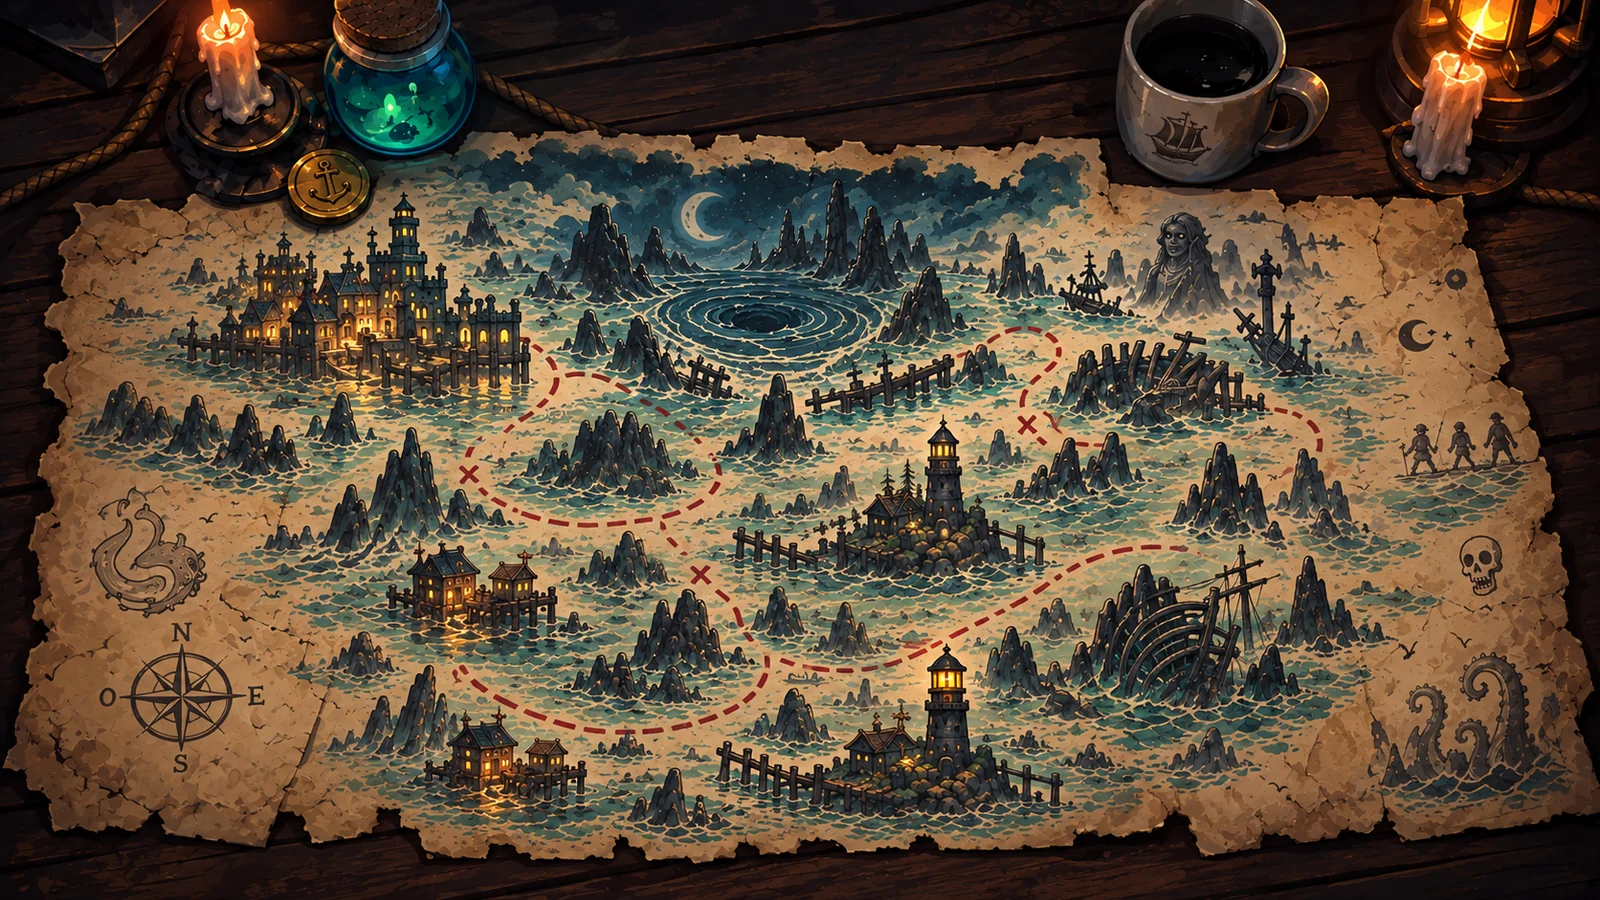
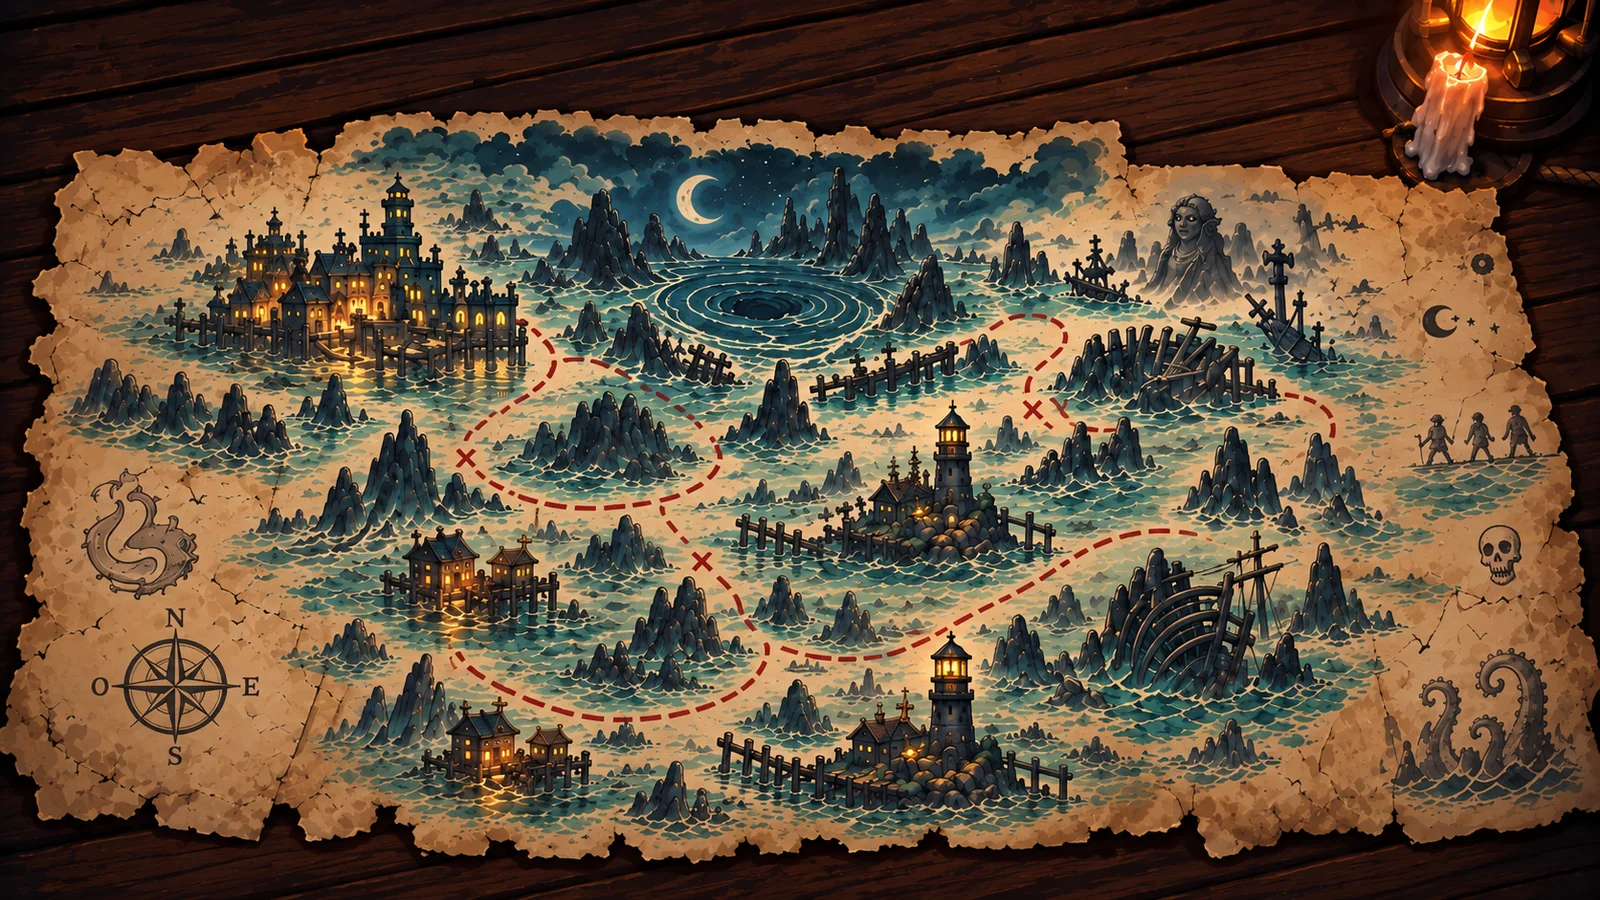
La tasse fume, le café ride : le seul objet vivant de la table
Le fond que tu as refait ne porte plus ni tasse ni bric-à-brac en haut à
droite : la tasse est devenue un calque à elle, et c'est elle qui bouge.

TROIS CALQUES CALÉS L'UN SUR L'AUTRE. La surface du café a été retrouvée
dans la tasse en la faisant glisser dessus jusqu'à ce qu'elle tombe juste :
64,3 % de sa largeur, à 8,95 % du bord gauche et 20,3 % du haut. Les deux
états (calme, agité) sont rognés sur la même boîte, donc superposables au
pixel : la ride n'est qu'un fondu de l'un vers l'autre, toutes les huit
secondes et demie, et l'illustration fait le reste.

TROIS VOLUTES QUI SE RELAIENT. Chacune a sa durée (8 s, 9,6 s, 11,2 s) et
son retard d'un tiers de cycle : on ne voit jamais la même forme repartir
deux fois de suite. Elles naissent au-dessus du café, montent, grandissent
et s'effacent.

La tasse est descendue à 7 % du haut : collée au bord, ses volutes
sortaient de l'écran et il ne restait qu'un tremblement au ras du café.

Sous `prefers-reduced-motion`, la table s'immobilise : plus de ride, et une
seule volute posée au-dessus de la tasse.

Tes seize PNG sont rognés, rangés en famille et convertis : 32,2 Mo →
3,6 Mo. Les gabarits des trois parchemins n'ont pas bougé d'un pixel avec
le nouveau fond — vérifié, leurs boîtes tombent au même endroit.

Claude-Session: https://claude.ai/code/session_0142tELaKzHd6B5n1av4gLgv

diff --git a/components/menu/MenuCarte.module.css b/components/menu/MenuCarte.module.css
@@ -116,6 +116,114 @@
   width: 42%;
 }
 
+/* ──────────────────────────────────────────────────────────────
+ * LA TASSE DE CAFÉ — le seul objet vivant de la table.
+ * ──────────────────────────────────────────────────────────────
+ *
+ * Trois calques calés les uns sur les autres : la tasse, la surface du
+ * café au repos, et la même agitée. Plus trois volutes de fumée, qui
+ * montent du café et se relaient.
+ *
+ * Tout est en pourcentages de la TASSE (et la tasse en pourcentages du
+ * fond, comme le reste du décor) : un seul nombre à toucher pour la
+ * déplacer, et le café reste dedans.
+ */
+.propTasse {
+  position: absolute;
+  z-index: 2;
+  /*
+   * Posée à droite de la carte, assez BAS pour que la fumée ait le ciel
+   * qu'il lui faut : collée au bord haut, ses volutes sortaient de
+   * l'écran et il ne restait qu'un tremblement au ras de la tasse.
+   */
+  top: 7%;
+  left: 68.5%;
+  width: 15.5%;
+  aspect-ratio: 1207 / 1143;
+  pointer-events: none;
+}
+
+.tasse,
+.cafeCalme,
+.cafeAgite,
+.fumee {
+  position: absolute;
+  height: auto;
+  user-select: none;
+}
+
+.tasse {
+  inset: 0;
+  width: 100%;
+}
+
+/*
+ * LA SURFACE DU CAFÉ, mesurée dans la tasse (`caler-cafe`) : elle occupe
+ * 64,3 % de sa largeur, à 8,95 % du bord gauche et 20,3 % du haut. Les
+ * deux états sont rognés sur la même boîte, ils se superposent au pixel.
+ */
+.cafeCalme,
+.cafeAgite {
+  top: 20.3%;
+  left: 8.95%;
+  width: 64.3%;
+}
+
+/*
+ * LA RIDE. Le café n'est pas immobile : toutes les huit secondes, une onde
+ * le traverse et se calme. C'est un fondu entre les deux surfaces, jamais
+ * un mouvement — l'illustration fait le reste.
+ */
+.cafeAgite {
+  opacity: 0;
+  animation: cafeRide 8.5s ease-in-out infinite;
+}
+
+@keyframes cafeRide {
+  0%, 46% { opacity: 0; }
+  62% { opacity: 0.92; }
+  78% { opacity: 0.55; }
+  100% { opacity: 0; }
+}
+
+/*
+ * LA FUMÉE. Trois volutes qui montent du café, chacune sur son propre
+ * cycle et décalée d'un tiers : on ne voit jamais la même forme repartir
+ * deux fois de suite. Elles naissent au-dessus de la surface du café
+ * (41 % de la largeur de la tasse) et s'effacent en montant.
+ *
+ * `--fumee-rang` (0, 1, 2) donne à chacune sa durée et son retard.
+ */
+.fumee {
+  bottom: 62%;
+  left: 41%;
+  z-index: 1;
+  width: 62%;
+  opacity: 0;
+  transform: translate(-50%, 0);
+  transform-origin: bottom center;
+  filter: blur(0.3px);
+  animation: fumeeMonte calc(8s + var(--fumee-rang) * 1.6s) ease-out infinite;
+  animation-delay: calc(var(--fumee-rang) * -3.1s);
+}
+
+@keyframes fumeeMonte {
+  0% {
+    opacity: 0;
+    transform: translate(-50%, 14%) scale(0.72) rotate(-3deg);
+  }
+  24% {
+    opacity: 0.52;
+  }
+  62% {
+    opacity: 0.34;
+  }
+  100% {
+    opacity: 0;
+    transform: translate(-50%, -58%) scale(1.26) rotate(6deg);
+  }
+}
+
 /*
  * LE LOGO est accroché à l'ÉCRAN, pas à la scène.
  *
@@ -223,5 +331,17 @@
   .card:focus-visible,
   .card:active {
     transform: none;
+  }
+
+  /* La table s'immobilise : le café ne ride plus, et une seule volute
+     reste posée au-dessus de la tasse, sans monter. */
+  .cafeAgite {
+    animation: none;
+  }
+
+  .fumee {
+    animation: none;
+    opacity: 0.22;
+    transform: translate(-50%, 0) scale(1);
   }
 }

diff --git a/components/menu/TideboundMenuCarte.tsx b/components/menu/TideboundMenuCarte.tsx
@@ -31,8 +31,22 @@ export const MENU_CARTE_ASSETS = {
   gauche: "/assets/menu/carte/left-asset.webp",
   droite: "/assets/menu/carte/right-asset.webp",
   longueVue: "/assets/menu/carte/longue-vue-bottom.webp",
+  tasse: "/assets/menu/carte/tasse-cafe.webp",
+  cafeCalme: "/assets/menu/carte/cafe_surface_normal.webp",
+  cafeAgite: "/assets/menu/carte/cafe_surface_variante.webp",
   logo: "/assets/menu/logo/tidebound-logo.webp",
 } as const;
+
+/**
+ * LES TROIS VOLUTES DE FUMÉE, jouées à tour de rôle et décalées dans le
+ * temps : trois formes qui se relaient, jamais la même boucle deux fois de
+ * suite à l'œil. Elles montent du café, pas de la tasse.
+ */
+const FUMEES = [
+  { src: "/assets/menu/carte/fumee_variante_1.webp", w: 609, h: 421 },
+  { src: "/assets/menu/carte/fumee_variante_2.webp", w: 415, h: 424 },
+  { src: "/assets/menu/carte/fumee_variante_3.webp", w: 648, h: 377 },
+] as const;
 
 interface CarteSlot {
   id: string;
@@ -134,6 +148,36 @@ export function TideboundMenuCarte({ marks = false }: { marks?: boolean }) {
           draggable={false}
           className={styles.propLongueVue}
         />
+
+        {/*
+          LA TASSE — le seul objet VIVANT de la table. Le fond ne la peint
+          plus : elle est posée ici avec sa surface de café et ses volutes,
+          qui sont les seules choses qui bougent de tout l'écran.
+
+          Les trois calques du café (tasse, café calme, café agité) sont
+          calés les uns sur les autres en pourcentages de la tasse — le
+          café occupe 64 % de sa largeur, à 9 % du bord gauche.
+        */}
+        <div className={styles.propTasse} aria-hidden>
+          {FUMEES.map((fumee, index) => (
+            <Image
+              key={fumee.src}
+              src={fumee.src}
+              alt=""
+              width={fumee.w}
+              height={fumee.h}
+              draggable={false}
+              className={styles.fumee}
+              style={{ "--fumee-rang": index } as CSSProperties}
+            />
+          ))}
+
+          <Image src={MENU_CARTE_ASSETS.tasse} alt="" width={1207} height={1143} draggable={false} className={styles.tasse} />
+          <Image src={MENU_CARTE_ASSETS.cafeCalme} alt="" width={718} height={338} draggable={false} className={styles.cafeCalme} />
+          {/* Le café agité est posé SUR le calme, à la même place : la
+              ride n'est qu'un fondu de l'un vers l'autre. */}
+          <Image src={MENU_CARTE_ASSETS.cafeAgite} alt="" width={718} height={338} draggable={false} className={styles.cafeAgite} />
+        </div>
 
         <nav aria-label="Menu Tidebound">
           {SLOTS.map((slot) => (

diff --git a/public/assets/menu/README.md b/public/assets/menu/README.md
@@ -21,18 +21,23 @@ amenée à évoluer.
 - `carte/` : la variante « carte marine » du menu, en cours d'évaluation
   (`/?menu=carte`, cf. `components/menu/TideboundMenuCarte.tsx`). La scène
   est MONTÉE en calques, pas peinte d'un bloc :
-  - `home-background.webp` (1672 × 941) : la table, ses bougies et la
-    carte punaisée. C'est la GÉOMÉTRIE DE RÉFÉRENCE — tous les autres
-    calques sont posés en pourcentages de celle-ci
-    (`?menu=carte&reperes=1` trace leurs boîtes pour recaler).
+  - `home-background.webp` (1672 × 941) : la table et sa carte punaisée.
+    C'est la GÉOMÉTRIE DE RÉFÉRENCE — tous les autres calques sont posés
+    en pourcentages de celle-ci (`?menu=carte&reperes=1` trace leurs
+    boîtes pour recaler).
   - `left-asset.webp`, `right-asset.webp`, `longue-vue-bottom.webp` : le
-    décor détouré posé sur la table. Le calque de gauche reprend la bougie
-    et le bocal que le fond peint déjà dans son coin : il se pose DESSUS,
-    à la même échelle, et les recouvre.
+    décor détouré posé sur la table.
   - `collection.webp`, `play.webp`, `market.webp` et leur `-hover` : les
-    trois parchemins, au repos et allumés. Les deux états d'un même
-    parchemin sont rognés sur la MÊME boîte, ce qui leur permet de se
-    superposer au pixel : le survol n'est qu'un fondu de l'un vers l'autre.
+    trois parchemins, au repos et allumés.
+  - `tasse-cafe.webp`, `cafe_surface_normal.webp`,
+    `cafe_surface_variante.webp`, `fumee_variante_1/2/3.webp` : la tasse,
+    le seul objet qui BOUGE. La surface du café est calée dans la tasse
+    (64,3 % de sa largeur, à 8,95 % / 20,3 %) et les deux états s'y
+    fondent l'un dans l'autre ; les trois volutes montent du café, chacune
+    sur son cycle.
+  - Les fichiers d'un même GROUPE (repos/survol, café calme/agité) sont
+    rognés sur une boîte COMMUNE : c'est ce qui leur permet de se
+    superposer au pixel une fois posés.
 
 Respecter la direction artistique verrouillée (voir
 `public/assets/README.md` et `public/assets/cards/README.md`) : maritime
